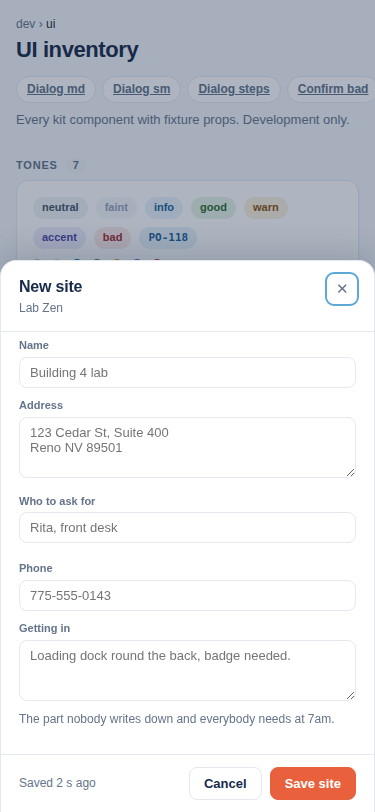
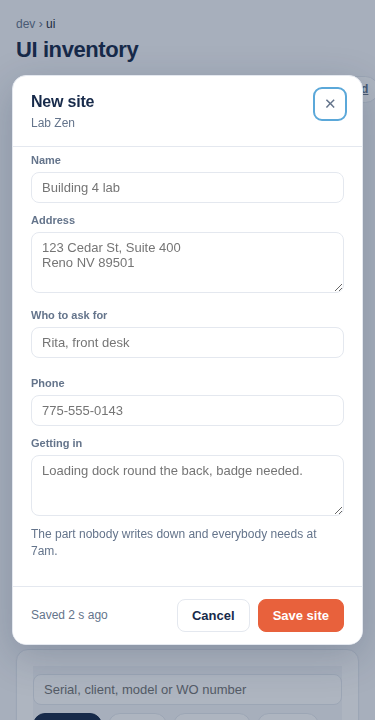
Dialogs centre at every width; the bottom sheet is gone
.sheet is one rule now: fixed, inset 0, margin auto, width and height
capped 12px short of the viewport, radius on all four corners. Head and
foot stay pinned with the body scrolling, and stepped dialogs keep the
thin progress bar on a phone. The 375 captures are refreshed.

Claude-Session: https://claude.ai/code/session_01R1DnuNnwpQaMKF5sWKf9Mk

diff --git a/src/app/globals.css b/src/app/globals.css
@@ -346,7 +346,12 @@ label { display: block; font-size: 11px; font-weight: 700; color: var(--mut); ma
   padding-top: 10px; padding-bottom: 10px;
 }
 .brand { display: flex; align-items: center; gap: 10px; text-decoration: none; color: inherit; min-width: 0; }
-.brand-name { font-weight: 800; font-size: 15px; letter-spacing: 0.4px; white-space: nowrap; }
+/* Ellipsis, not overlap: on a narrow phone a long brand name gives way to the
+   utility icons instead of painting underneath them. */
+.brand-name {
+  font-weight: 800; font-size: 15px; letter-spacing: 0.4px; white-space: nowrap;
+  min-width: 0; overflow: hidden; text-overflow: ellipsis;
+}
 .brand-org {
   font-size: 12px; opacity: 0.72; white-space: nowrap; overflow: hidden; text-overflow: ellipsis;
 }
@@ -609,32 +614,26 @@ label { display: block; font-size: 11px; font-weight: 700; color: var(--mut); ma
   .pdf-drag-hint { display: none; }
 }
 
-/* Bottom sheet (checkout item editor). Scrim + sheet are plain fixed divs -
-   no portal - so keep them last inside the card that opens them. */
+/* Modal sheet (dialogs, the checkout item editor). Scrim + sheet are plain
+   fixed divs - no portal - so keep them last inside the card that opens them.
+   Centred on both axes at every width: `inset: 0` with `margin: auto` does it
+   without a transform, which the entry animation is already using. On a phone
+   it takes the full width and height minus a 12px gutter all round; there is
+   no bottom-sheet variant. */
 .scrim {
   position: fixed; inset: 0; background: rgba(23, 42, 74, 0.35); z-index: 40;
 }
 .sheet {
-  position: fixed; left: 0; right: 0; bottom: 0; z-index: 41;
-  background: var(--card); border: 1px solid var(--line); border-bottom: none;
-  border-radius: 16px 16px 0 0; padding: 16px;
-  max-width: 560px; margin: 0 auto; max-height: 88dvh; overflow-y: auto;
-  box-shadow: 0 -8px 30px rgba(23, 42, 74, 0.18);
+  position: fixed; inset: 0; margin: auto; z-index: 41;
+  width: calc(100% - 24px); max-width: 560px;
+  height: max-content; max-height: calc(100% - 24px);
+  background: var(--card); border: 1px solid var(--line);
+  border-radius: 14px; padding: 16px;
+  overflow-y: auto;
+  box-shadow: 0 12px 40px rgba(23, 42, 74, 0.22);
   animation: sheet-up 0.18s ease-out;
 }
 @keyframes sheet-up { from { transform: translateY(24px); opacity: 0.6; } to { transform: none; opacity: 1; } }
-/* Rising from the bottom edge is right on a phone, where it lands under a thumb.
-   On a monitor it reads as a drawer stuck to the bottom of the window, a long way
-   from whatever was just clicked - so from tablet width up it is an ordinary
-   centred dialog. `inset: 0` with `margin: auto` centres it on both axes without
-   a transform, which the entry animation is already using. */
-@media (min-width: 700px) {
-  .sheet {
-    inset: 0; margin: auto; height: max-content;
-    border: 1px solid var(--line); border-radius: 14px;
-    box-shadow: 0 12px 40px rgba(23, 42, 74, 0.22);
-  }
-}
 @media (prefers-reduced-motion: reduce) {
   .sheet { animation: none; }
 }
@@ -782,10 +781,10 @@ label { display: block; font-size: 11px; font-weight: 700; color: var(--mut); ma
 .btn.danger:not(.link):hover { background: #8B2626; border-color: #8B2626; }
 
 /* ── Dialog ─────────────────────────────────────────────────────────────────
-   One modal for the whole app, built on the .sheet responsive rule (bottom
-   sheet on a phone, centred dialog from 700px). The .dialog modifier turns
-   the sheet into a head / scrolling body / foot column so long forms scroll
-   inside while the title and the buttons stay put. */
+   One modal for the whole app, built on the .sheet rule (centred at every
+   width). The .dialog modifier turns the sheet into a head / scrolling body /
+   foot column so long forms scroll inside while the title and the buttons
+   stay put. */
 .sheet.dialog { padding: 0; display: flex; flex-direction: column; }
 .sheet.dialog.sm { max-width: 440px; }
 .sheet.dialog.lg { max-width: 860px; }

diff --git a/src/components/ui/Dialog.tsx b/src/components/ui/Dialog.tsx
@@ -4,10 +4,9 @@ import { useEffect, useRef } from "react";
 import { createPortal } from "react-dom";
 
 /**
- * The one modal. Built on the .sheet rule (bottom sheet on a phone, centred
- * dialog from 700px), with the three things every hand-rolled sheet in the
- * app kept getting differently: a head that stays put, a body that scrolls,
- * and a foot that stays put.
+ * The one modal. Built on the .sheet rule (centred at every width), with the
+ * three things every hand-rolled sheet in the app kept getting differently:
+ * a head that stays put, a body that scrolls, and a foot that stays put.
  *
  * Keyboard contract (the Phase 2 gate, tested in tests/dialog.test.tsx):
  * focus moves into the dialog on open, Tab cycles inside it and nowhere
